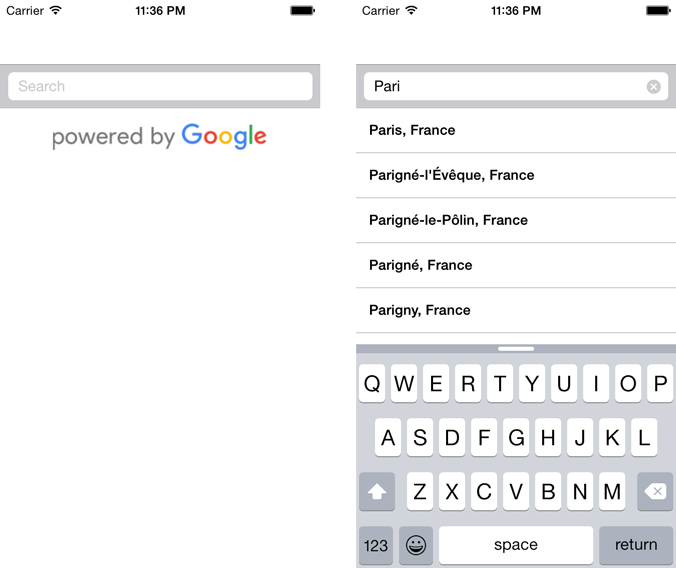
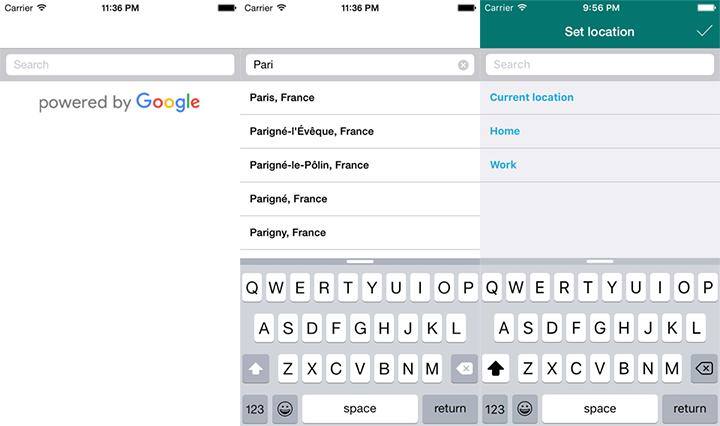
update screenshot

diff --git a/README.md b/README.md
@@ -73,6 +73,7 @@ var Example = React.createClass({
 
 1. ```npm install react-native-google-places-autocomplete --save```
 2. Get your [Google Places API keys](https://developers.google.com/places/) and enable "Google Places API Web Service" (NOT Android or iOS) in the console.
+3. Enable "Google Maps Geocoding API" if you want to use GoogleReverseGeocoding for Current Location
 
 
 ### Features
@@ -83,7 +84,9 @@ var Example = React.createClass({
 - [x] Customizable using the ```styles``` parameter
 - [x] XHR cancellations when typing fast
 - [x] Google Places terms compliant
-- [ ] Caching of results
+- [x] Current location
+- [x] Predefined places
+
 
 ### License
 
